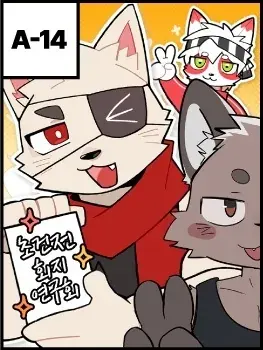
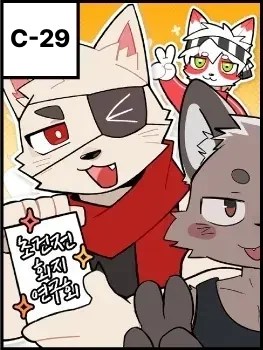
C29·C30 부스컷의 번호 칸을 C-29·C-30으로 다시 그림 (#98)
Claude-Session: https://claude.ai/code/session_01F97b7GPKM1eNYHUKErKHXH

Changed region(s): [[0.0304, 0.0857, 0.2738, 0.1429]]

diff --git a/sw.js b/sw.js
@@ -4,7 +4,7 @@
 // 또 페이지가 보내준 이미지 목록(precache-images 메시지, 부스컷 썸네일·프로필 사진)을 백그라운드에서 미리 받아 두어서,
 // 처음 접속한 뒤에는 보지 않은 부스의 사진도 오프라인에서 보이게 함.
 // 이미지를 같은 파일명으로 교체했을 때 바로 반영되게 하려면 CACHE_VERSION 을 올리면 됨.
-const CACHE_VERSION = "v5";
+const CACHE_VERSION = "v6";
 const CACHE_NAME = `furstclass-cache-${CACHE_VERSION}`;
 const SHELL_URLS = ["./", "./index.html", "./favicon.png"];
 // 저장해 둔 페이지가 있을 때 네트워크를 기다리는 최대 시간(이 시간이 지나면 저장해 둔 페이지로 먼저 띄움)

diff --git a/docs/wiki/변경-이력.md b/docs/wiki/변경-이력.md
@@ -4,6 +4,7 @@
 
 | 날짜 | 내용 | 커밋/PR |
 |---|---|---|
+| 2026-11-12 | C29·C30(예전 A14·A15) 부스컷에 찍힌 번호 "A-14"·"A-15"를 "C-29"·"C-30"으로 다시 그림, 이미 받아 둔 예전 그림이 바뀌도록 sw.js 캐시 버전 v6 ([문서](기능-부스원과-부스컷.md)) | (이 PR) |
 | 2026-11-12 | B14 상품 글을 X에서 수정했는데 사이트엔 예전 내용이 보이던 문제: X는 수정본에 새 글 id를 주고 예전 id 임베드는 수정 전 내용을 보여줌. 수집기가 최근 후보의 수정 기록(X 임베드 서버)을 확인해 최신 판으로 바꾸고, 관리 화면을 열 때 예전 판 반영·제외를 최신 판으로 옮김. check 로그에 수정 기록 추가 ([문서](기능-부스-상품-정보.md)) | (이 PR) |
 | 2026-11-12 | 부스 번호 변경: A14 초건전회지연구회 → C29, A15 PPP2 → C30 (부스 목록·상세·검색·최근 갱신). 예전 번호로 저장된 메모·방문 상태·예산·쓴 돈·우선순위·선입금과 반영된 상품 글은 새 번호로 자동 이전. 배치도는 그대로(두 부스는 배치도 갱신 전까지 배치도에 안 보임) ([문서](기능-부스원과-부스컷.md)) | (이 PR) |
 | 2026-11-11 | 관심 부스 탭에서 방문 예정·방문 완료 필터를 누르면 "방문 예정 부스 n개" / "방문 완료 부스 n개"로 개수 표시. 최근 갱신 탭 "⭐ 내 부스만" 버튼 이름을 "⭐ 내 관심 부스만"으로 변경(한·영·일). 설명서 14번 장도 새 이름으로 ([문서](기능-메모-방문상태-예산.md), [문서](기능-부스-상품-정보.md)) | (이 PR) |
